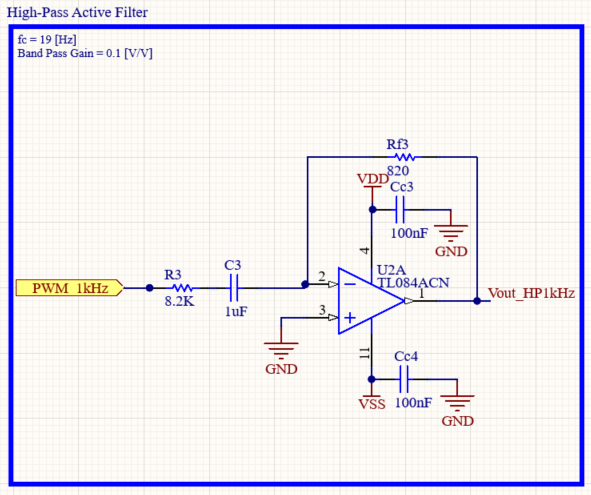
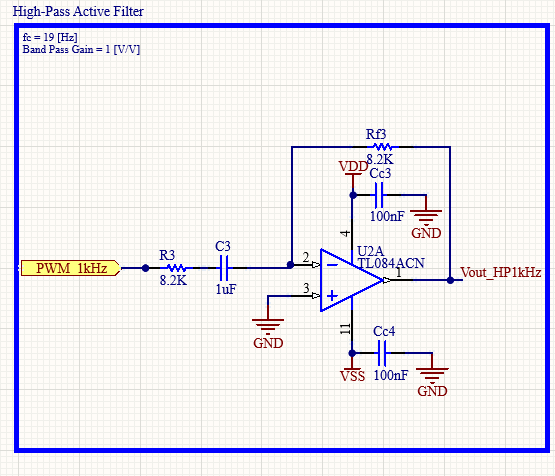
1kHz Matlab done, Readme Updated

diff --git a/matlab/signal_analysis/pwm_1kHz.m b/matlab/signal_analysis/pwm_1kHz.m
@@ -175,58 +175,57 @@ Rin_HP = 8.2e3;      % Ohm
 Rf_HP  = 8.2e3;      % Ohm
 Cin_HP = 1e-6;      % F
 
-%ToDO: Verify passive component values and Sallen-Key Formulas
-%% Sallen-Key low-pass filter with variable gain
+%% Sallen-Key low-pass filter - ideal design
 
-R4a = 4.7e3;      % Ohm
-R4b = 8.2e3;      % Ohm
-R4c = 3.3e3;      % Ohm
+% Design targets
+fc_LP = 2e3;       % Hz
+Q_LP  = 0.707;     % Butterworth
+C_LP  = 10e-9;     % F
 
-C4a = 10e-9;      % F
-C4b = 10e-9;      % F
+% Ideal design equations
+w0 = 2*pi*fc_LP;
 
-RA = 8.2e3;       % Ohm
-RB = 8.2e3;       % Ohm
+R_nom  = 1/(w0*C_LP);
+RA_nom = R_nom;
+RB_nom = (2 - 1/Q_LP)*RA_nom;
 
-a = R4c / (R4a + R4c);
-K = 1 + RB/RA;
+K = 1 + RB_nom/RA_nom;
+a = 1/K;
 
-w0 = 1 / sqrt(R4a*R4b*C4a*C4b);
-fc_LP = w0 / (2*pi);
-
-Q = sqrt(R4a*R4b*C4a*C4b) / ...
-    (C4b*(R4a + R4b) + C4a*R4a*(1 - K));
-
+% Ideal transfer function
 H_lp = (a*K*w0^2) ./ ...
-    (s.^2 + s.*(w0/Q) + w0^2);
+    (s.^2 + s.*(w0/Q_LP) + w0^2);
 
 H_lp_dB = 20*log10(abs(H_lp));
 
-%% Derived cutoff frequencies
+%% Complete reconstruction filter
 
+% High-pass transfer function
 fc_HP = 1/(2*pi*Rin_HP*Cin_HP);
-fc_LP = 1/(2*pi*sqrt(R4a*R4b*C4a*C4b));
 
-%% Transfer functions
+H_hp = (-Rf_HP*Cin_HP*s) ./ ...
+    (1 + Rin_HP*Cin_HP*s);
 
-s = 1j*w;
-
-H_hp = (-Rf_HP*Cin_HP*s) ./ (1 + Rin_HP*Cin_HP*s);
-
-H_lp = (K/(R4a*R4b*C4a*C4b)) ./ ...
-    (s.^2 + ...
-    s.*((1/R4a + (2-K)/R4b)/C4a) + ...
-    1/(R4a*R4b*C4a*C4b));
-
+% Complete 1 kHz reconstruction filter
 H_filter = H_hp .* H_lp;
-
 H_filter_dB = 20*log10(abs(H_filter));
+
+fprintf('\n--- Ideal 1 kHz reconstruction filter ---\n');
+fprintf('High-pass fc = %.1f Hz\n', fc_HP);
+fprintf('Sallen-Key fc = %.1f Hz\n', fc_LP);
+fprintf('Sallen-Key Q  = %.3f\n', Q_LP);
+fprintf('R nominal     = %.0f ohm\n', R_nom);
+fprintf('RA nominal    = %.0f ohm\n', RA_nom);
+fprintf('RB nominal    = %.0f ohm\n', RB_nom);
+fprintf('K ideal       = %.4f\n', K);
+fprintf('a ideal       = %.4f\n', a);
+fprintf('aK gain       = %.4f V/V\n', a*K);
 
 
 figure;
 plot(f_pwm, PWM_mag_dB, 'LineWidth', 1.2);
 hold on;
-plot(f_pwm, H_lp_dB, 'LineWidth', 1.8);
+plot(f_pwm, H_filter_dB, 'LineWidth', 1.8);
 grid on;
 
 xline(f0, ':', sprintf('Signal = %.1f Hz', f0));
@@ -235,9 +234,9 @@ xline(FS, ':', sprintf('f_{PWM} = %.0f Hz', FS));
 
 xlabel('Frequency [Hz]');
 ylabel('Normalized Magnitude [dB]');
-title('PWM FFT with 1 kHz Sallen-Key Low-Pass Filter Response Overlay');
+title('PWM FFT with 1 kHz Reconstruction Filter Response Overlay');
 
-legend('PWM FFT', 'Sallen-Key LP response');
+legend('PWM FFT', 'Reconstruction filter response');
 
-xlim([0 100000]);
+xlim([0 5000]);
 ylim([-100 10]);

diff --git a/README.md b/README.md
@@ -108,7 +108,7 @@ After analog filtering, the low-frequency sinusoidal envelope is reconstructed w
 
 Figure 2 shows the spectrum of the sinusoidal lookup table (LUT), revealing the desired 60 Hz component together with a large DC component resulting from the positive-only PWM duty-cycle range.
 
-Figure 3 shows the spectrum of the corresponding PWM signal. After modulation, the desired 60 Hz component remains dominant, while harmonics introduced by the PWM process remain more than 40 dB below the fundamental component. The PWM carrier however introduces undesireable frequency content that needs to be attenuated by the reconstruction filters.
+Figure 3 shows the spectrum of the corresponding PWM signal. After modulation, the desired 60 Hz component remains dominant, while harmonics introduced by the PWM process remain more than 40 dB below the fundamental component. The PWM carrier, however, also generates high-frequency spectral components around the carrier frequency (see Figure 4). These components are removed by the analog reconstruction filters, leaving only the desired low-frequency sinusoidal envelope.
 
 <p align="center">
   <img src="docs/images/signal_analysis/PWM60Hz_FFT_LUT.png" width="49%" />
@@ -117,7 +117,7 @@ Figure 3 shows the spectrum of the corresponding PWM signal. After modulation, t
 
 <p align="center">
   <em>Figure 2. Frequency spectrum of the 60 Hz lookup table.</em><br>
-  <em>Figure 3. Frequency spectrum of the LUT-modulated PWM signal.</em>
+  <em>Figure 3. Frequency spectrum of the LUT-modulated PWM signal(0-1kHz).</em>
 </p>
 
 This frequency-domain view highlights two important design objectives:
@@ -145,6 +145,25 @@ Figure 5 focuses on the low-frequency region of interest. The DC component is st
 The resulting 19 Hz – 164 Hz band-pass response preserves the desired 60 Hz sinusoidal component while attenuating both the DC offset and the high-frequency PWM carrier. The origin of these cutoff frequencies is detailed in the Analog Filter Stages section.
 
 This frequency-domain analysis provides valuable insight into the signal reconstruction process before any hardware measurements are performed.
+
+#### 1 kHz signal path
+
+The 1 kHz signal follows the same PWM reconstruction principle as the 60 Hz path. However, generating a 1 kHz sinusoid with the same timer configuration would provide too few duty-cycle updates per period, resulting in visible waveform distortion.
+
+To increase the temporal resolution, the 1 kHz signal is generated using **Timer2** configured for **8-bit Fast PWM** at **62.5 kHz**. Although this reduces the PWM amplitude resolution from 10 bits to 8 bits, the fourfold increase in carrier frequency provides 64 PWM updates per sinusoidal period instead of only 16. This significantly improves the reconstructed waveform while keeping the analog filtering requirements manageable.
+
+The figures below illustrate the frequency-domain behavior of the 1 kHz signal path.
+
+<p align="center">
+  <img src="docs/images/signal_analysis/PWM1kHz_FFT_PWM_and_filter.png" width="49%" />
+  <img src="docs/images/signal_analysis/PWM1kHz_FFT_PWM_and_filter_zoom.png" width="49%" />
+</p>
+
+<p align="center">
+  <em>Figure 6. Reconstruction filter response superimposed on the 1 kHz PWM spectrum.</em><br>
+  <em>Figure 7. Zoomed view of the 1 kHz passband.</em>
+</p>
+
 ### Analog Filter Stages
 #### First-order active high-pass filter
 <p align="center">